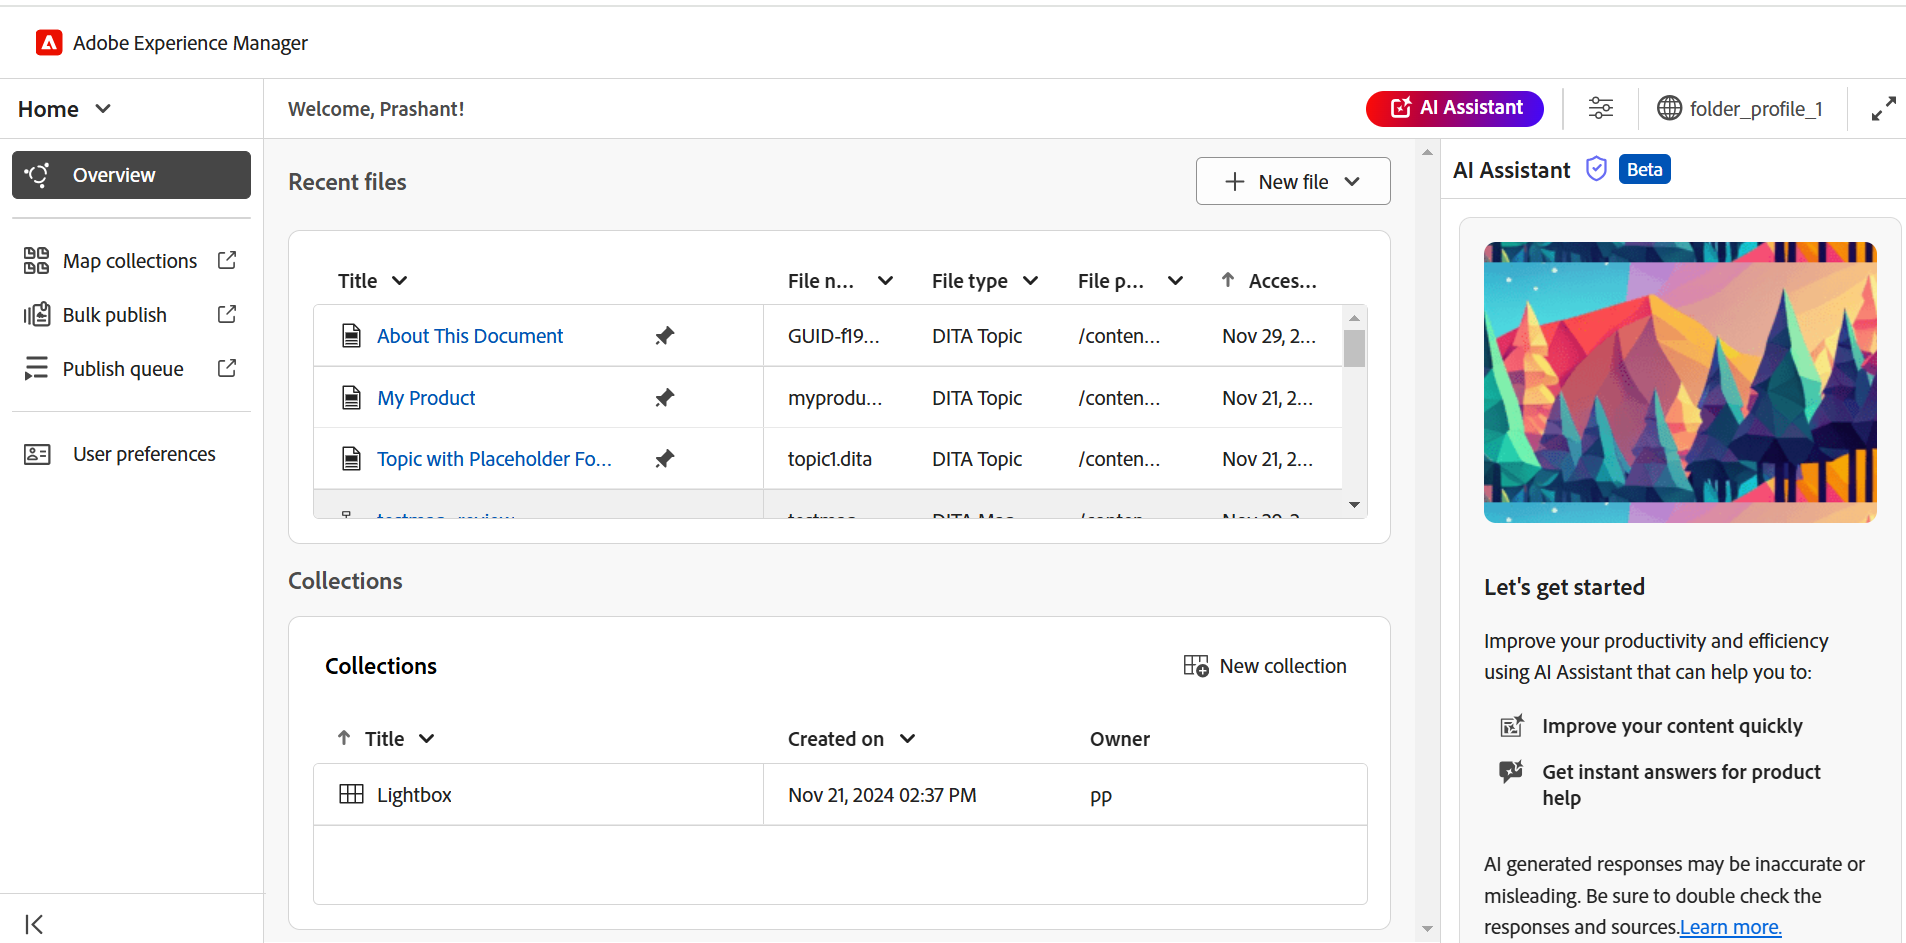
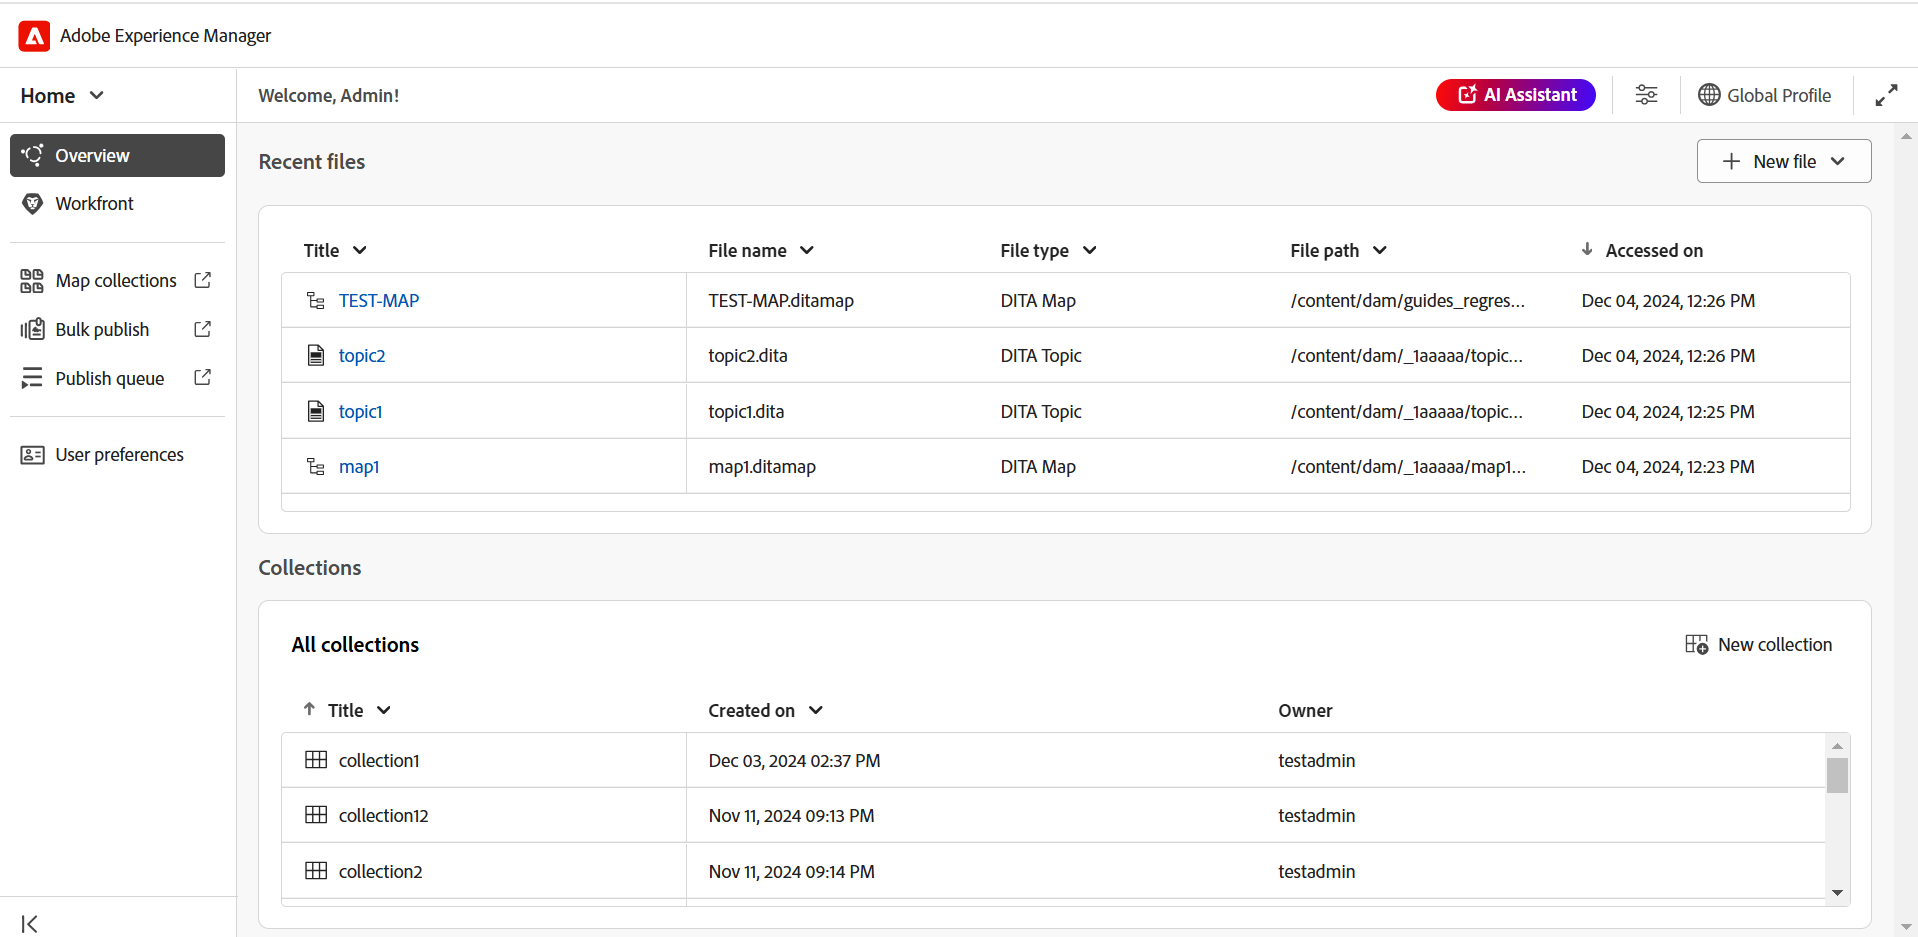
updated-aem-home-page
modified content based on manik's feedback,

diff --git a/help/product-guide/user-guide/intro-home-page.md b/help/product-guide/user-guide/intro-home-page.md
@@ -6,7 +6,7 @@ role: User
 ---
 # Adobe Experience Manager Guides Home page experience
 
-The Home page is the first thing that you see when logging into Experience Manager Guides. It provides you with a unified and intuitive welcome screen experience, which includes a quick view of recent files, collections, and more.
+The Home page is the first thing that you see when logging into Experience Manager Guides. It provides you with a unified and intuitive welcome screen experience, which includes a quick view of the files that you recently accessed, collections, and more.
 
 ![](images/aem-home-page.png){width="800" align="left"}
 
@@ -15,17 +15,16 @@ The Experience Manager Guides Home page is divided into the following sections:
  - Header bar 
  - Navigation bar 
  - Left panel 
- - Widget section  
 
 ## Header bar 
 
-The header bar is the top-bar of the Home page that displays the Adobe Experience Manager logo (or a Unified Shell if you are using the Unified Shell as your Experience Manager Guides UI).  
+The header bar is the top-bar of the Home page that displays the Adobe Experience Manager logo (or a Unified Shell if you are using the Unified Shell as your Experience Manager Guides UI). Select the logo to navigate to the Experience Manager Navigation page
 
 ![](images/aem-home-header.png){width="800" align="left"}
 
 ## Navigation bar 
 
-The navigation bar surfaces tools to switch navigation, customize the overview layout, and expand or minimize the workspace view. It also displays the Experience Manager Guides profile (Global Profile or Folder Profile) that is currently being used.
+The navigation bar surfaces tools to switch navigation, customize the overview layout, and expand or minimize the workspace view. It also displays the Experience Manager Guides profile that is currently being used.
 
 ![](images/aem-home-nav-bar.png){width="800" align="left"}
 
@@ -35,18 +34,25 @@ Features available in the navigation bar are explained as follows:
    - **Home**: The default view that you see when logging into Experience Manager Guides.
    - **Editor**: An easy-to-use web-based Editor that allows you to create and manage structured documents in AEM Guides. [Get to know the Editor interface.](./web-editor.md) 
    - **Map console**: Provides you a dedicated workspace to handle all aspects of map management and publishing.   
- - **AI Assistant**: An [AI Assistant tool](./ai-assistant-right-panel.md) that helps you make your authoring smarter and faster. 
+ - **AI Assistant**: [AI-powered Smart Help](./ai-based-smart-help.md) feature that helps you find relevant content from the Adobe Experience Manager Guides Documentation. 
  - **Customize overview section**: Allows you to hide or show the widgets in the Overview layer. 
- - **Profile in use**: Displays Global profile or Folder profile (name) that is currently being used.  
- - **Adjust view**: Allows you to expand or minimize the current workspace. Expanding the view hides the header bar, while minimizing it restores the header bar to its original position 
+ - **Profile in use**: Displays the Experience Manager Guides profile that is currently being used.  
+ - **Expand view**: Allows you to expand the page view by selecting the **Expand** icon. In this view, the Top-header is hidden, maximizing the content space. To return to the standard view, select the **Exit the expanded view** icon. 
 
 ## Left panel 
 
-The left panel is a persistent panel. You can expand or collapse it by selecting the Expand Sidebar icon placed at the bottom-left corner of the interface. 
+The left panel gives you access to the various sections available in the Experience Manager Guides, including Overview, Map collections, Bulk publish, Publish queue, and User preferences. You can expand or collapse it by selecting the Expand Sidebar icon placed at the bottom-left corner of the interface. 
 
 ![](images/aem-home-left-panel.png){width="800" align="left"}
 
-The left panel provides a quick access to the following: 
+What you view on this panel depends on your user role. The following table lists the roles and the respective sections that are displayed in the left panel.
+
+ - **Admin & Publisher**: The ability to view all the sections in the panel.
+ - **Author**: The ability to view all the sections except publishing. Author do not have access to Map collections, Publish queue, and Bulk publish section.
+ - **Reviewer**: The ability to view the Overview section only. Selecting the Overview section either displays a default empty state message or the Workfront tasks widget depending on whether Workfront is configured.  
+   
+
+Features available in the left panel are explained as follows: 
 
 - [Overview](#overview)
 - [Map Collections](#map-collections) 
@@ -61,21 +67,23 @@ The left panel provides a quick access to the following:
 
 ### Overview 
 
-The Overview layer acts like a personalized dashboard and provides you quick access to essential items for enhanced productivity. It features a Widget section where the following widgets are displayed: 
+**Overview** acts like a personalized dashboard designed to enhance productivity. It features a Widget section where the following widgets are displayed: 
 
- - **Recent Files**: The widget provides you a snapshot of recently-used files (a list of files that you accessed in the Editor) along with the key file details including Title, File name, File type, File path, and Accessed on dates. 
+ - **Recent Files**: The widget provides you a snapshot of recently-opened files (a list of files that you accessed in the Editor) along with the key file details including Title, File name, File type, File path, and Accessed on dates. From [User Preferences](#user-preferences), you can set the maximum number of files that can be displayed in this widget. By default, this limit is set to **20**. 
 
-    The following options are available when you hover over a file:  
+   The following options are available when you hover over a file:  
 
    - **Open in editor**: Allows you to open the selected file in the Editor. You can also open it by selecting the file title. 
-   - **Pin**: Allows you to pin the selected file in the widget 
+   - **Pin/unpin**: Allows you to pin one or more files to the Recent files widget. Pinned files are displayed at the top in widget list. To unpin a file, use the **Unpin** option.   
    - **Remove**: Allows you to remove the selected file from the Recent files widget. 
 
     **Create new file from the New File drop-down menu**  
 
-    The **New file** drop-down menu allows you to create a topic or DITA Map right from the **Recent files** widget section. On successful file creation, you will be redirected to the Editor interface where you can work upon the file. 
+    The **New file** drop-down menu allows you to create a topic or DITA map right from the **Recent files** widget section. On successful file creation, you will be redirected to the Editor interface where you can work upon the file. 
 
- - **Collections**: If you work on a set of files or folders, you can add them to this widget to access them quickly. Once added, you can view the files by Titles along with their respective Owner names and Created on dates.  As you click on the column dropdown, you can view the options to sort and resize the column.  
+ - **Collections**: If you work on a set of files or folders, you can add them to this widget to access them quickly. Once added, you can view the files by Titles along with other key details about the Owner and Created On dates. As you click on the column dropdown, you can view the options to sort and resize the column.  
+
+   The Collectios widget also displays the collection's breadcrumb at the top of the widget. You can click on it to go back to a specific folder within the hierachy. 
 
     The following options are available when you hover over a collection:
      - **Rename**: Allows you to rename the selected collection.  
@@ -83,7 +91,7 @@ The Overview layer acts like a personalized dashboard and provides you quick acc
      - **View in Assets UI**: Allows you to open the selected collection in the Assets UI. 
 
      You can open a collection by selecting the Collection title. The following options are available when you hover a Collection file:
-      - **Open in editor**: Allows you to open the selected file in the Editor. You can also open it by selecting the file title. 
+      - **Open in editor**: Allows you to open the selected file in the Editor. You can also open it by clicking the file title. 
       - **Open in map console**: Allows you to open the selected map file in the map console. (Available only for a DITA map file).
       - **Add to collections**: Allows you to add the selected file to a new or existing collection.
       - **Remove from collections**: Allows you to remove the selected file from the collections list.
@@ -99,17 +107,17 @@ The Overview layer acts like a personalized dashboard and provides you quick acc
 
 ### Map collections 
 
-Experience Manager Guides provides you the ability to organize your content for publishing by using a dashboard called **Map collections**. To use this feature, select **Map collections** from the Left panel. It takes you to the Map collections folder in the **Assets UI** where you can [use map collection for output generation.](./generate-output-use-map-collection-output-generation.md)  
+Experience Manager Guides provides you the ability to organize your content for publishing by using a dashboard called **Map collections**. To use this feature, select **Map collections** from the Left panel. It takes you to the Map collections page in the **Assets UI** where you can [use map collection for output generation.](./generate-output-use-map-collection-output-generation.md)  
 
 ### Bulk publish 
 
-The Bulk Activation feature allows you to quickly and easily activate your content from authoring to publishing instance. To use this feature, select **Bulk publish** from the Left panel. It takes you to the Bulk Activation Collections folder in the Assets UI where you can manage as well as [create a bulk activation map collection.](./conf-bulk-activation-publish-map-collection.md) 
+The Bulk Activation feature allows you to quickly and easily activate your content from authoring to publishing instance. To use this feature, select **Bulk publish** from the Left panel. It takes you to the Bulk Activation Collections page in the Assets UI where you can manage as well as [create a bulk activation map collection.](./conf-bulk-activation-publish-map-collection.md) 
 
 ### Publish queue 
 
 When you have a large set of publishing tasks running on your system, it becomes practically impossible to check each DITA map individually to monitor its publishing task. Experience Manager Guides gives the administrators and publishers a unified view of all publishing tasks running in the system.  
 
-To use this feature, select **Publish queue** from the Left panel. It takes you to the Publish dashboard folder in the Assets UI where you can [manage publish tasks using the publish dashboard](./generate-output-publish-dashboard.md). 
+To use this feature, select **Publish queue** from the Left panel. It takes you to the Publish dashboard page in the Assets UI where you can [manage publish tasks using the publish dashboard](./generate-output-publish-dashboard.md). 
 
 ### User preferences 
 
@@ -134,10 +142,3 @@ The User preferences are available to all authors. Using the preferences, you ca
      - **Source view theme**: You can choose from the Light or Dark themes for the content editing area in source view. In the case of the Light theme, the content editing area uses a light grey color background for the source view while in the case of Dark theme, it uses a black color background. Select **Use device** theme to allow Experience Manager Guides to select the light and dark themes based on the theme of your device.
     - **Always locate files in the repository**: Select this option to show the location of a file in the repository while editing it in the Editor.
      - **Show non-breaking space indicator in the author mode**: Select this option to show an indicator for the non-breaking spaces while editing it in the Editor. It’s enabled by default.
-
-
-## Widget section
-
-When you select the **Overview** and **User Preferences** section in the Left panel, the widgets configured for the selected section is displayed on the right. This section where widgets are displayed is the Widget section of the interface.  
-
-

diff --git a/help/product-guide/user-guide/workfront-integration.md b/help/product-guide/user-guide/workfront-integration.md
@@ -5,3 +5,25 @@ feature: Authoring
 role: User
 ---
 # Workfront Integration
+
+Adobe Workfront is a cloud-based work management solution that helps teams and organizations plan, track and manage their work efficiently. The native integration between Adobe Workfront and Adobe Experience Manager Guides provides you with a unified workspace to seamlessly author and manage content, as well as allocate and track tasks.  
+
+## Key features:
+
+With the native Adobe Workfront integration, you can: 
+
+* Plan, allocate, and track the progress of individual tasks and projects without relying on multiple, non-integrated tools. 
+* Manage all Experience Manager Guides workflows including authoring, reviewing, publishing, and translating content more efficiently. 
+* Receive task notifications through a configurable notification system whenever new tasks are assigned. 
+* Monitor project health using Workfront’s intuitive dashboard, offering real-time insights into project performance. 
+* Maintain a detailed audit trail to easily review and track key project activities from the past. 
+
+# Get started
+
+Once configured and enabled by your administrator, Workfront tasks can be accessed right from the [home page of AEM Guides](./intro-home-page.md). 
+
+Perform the following steps to access your Workfront tasks: 
+
+1. Log into Experience Manager Guides and open the **Home page**.  
+2. Go to Your Tasks widget that displays a list of Workfront tasks that are assigned to you and in open state. You can also navigate to the Workfront section in the  Left panel. This takes you to the Workfront tasks page wherein you can view the tasks assigned to you and created by you in two separate tabs.  
+
